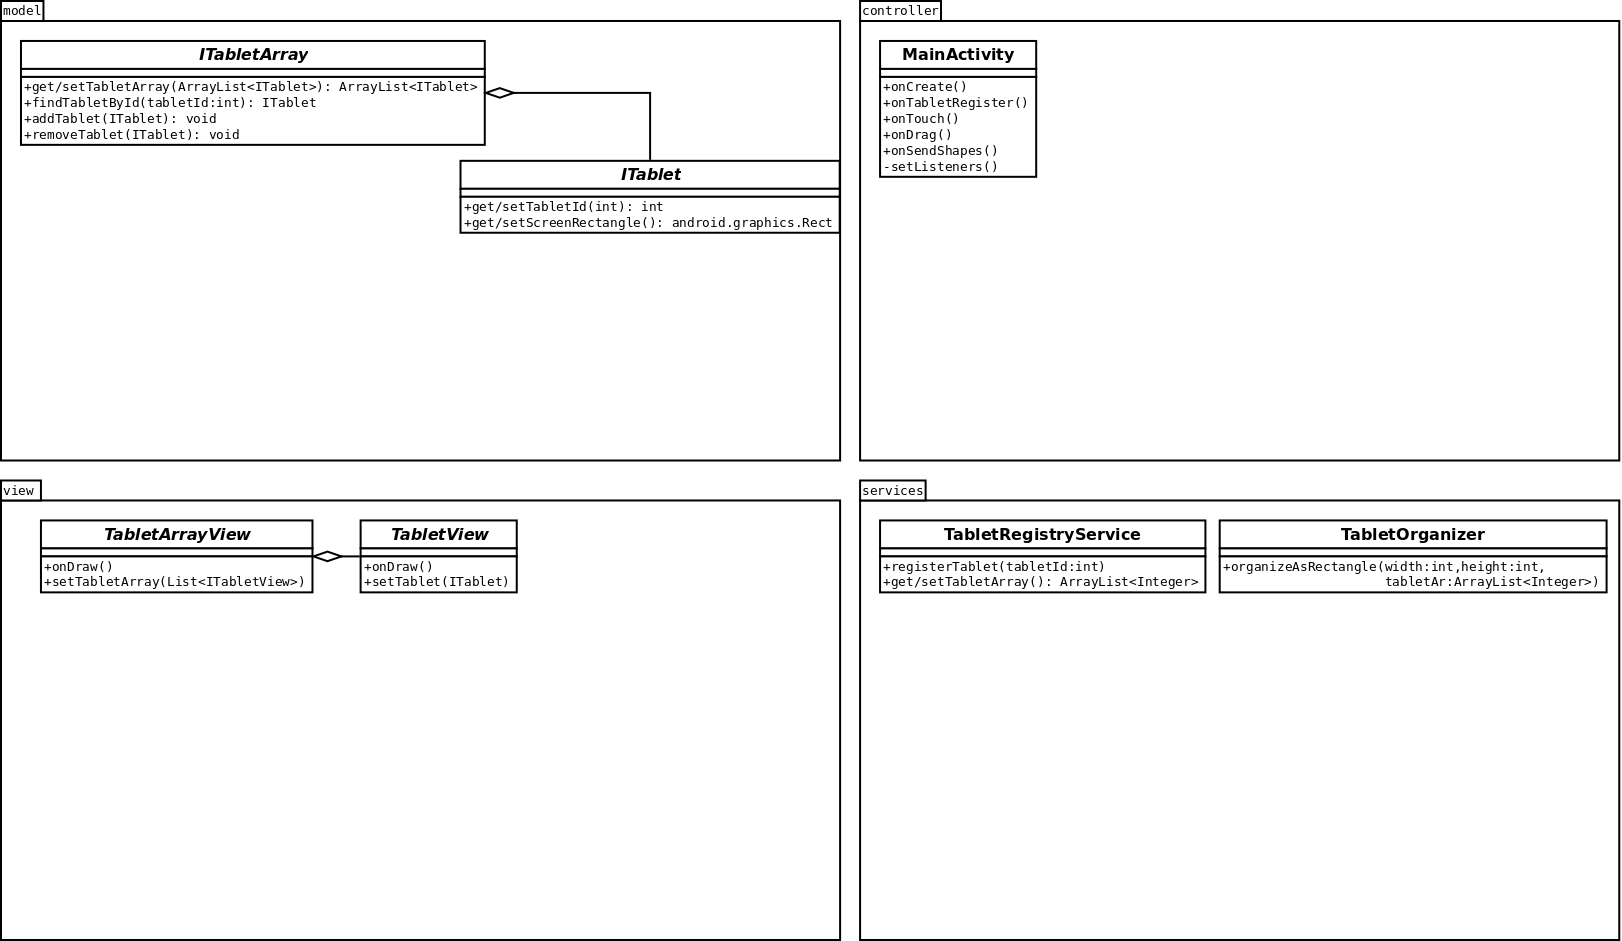
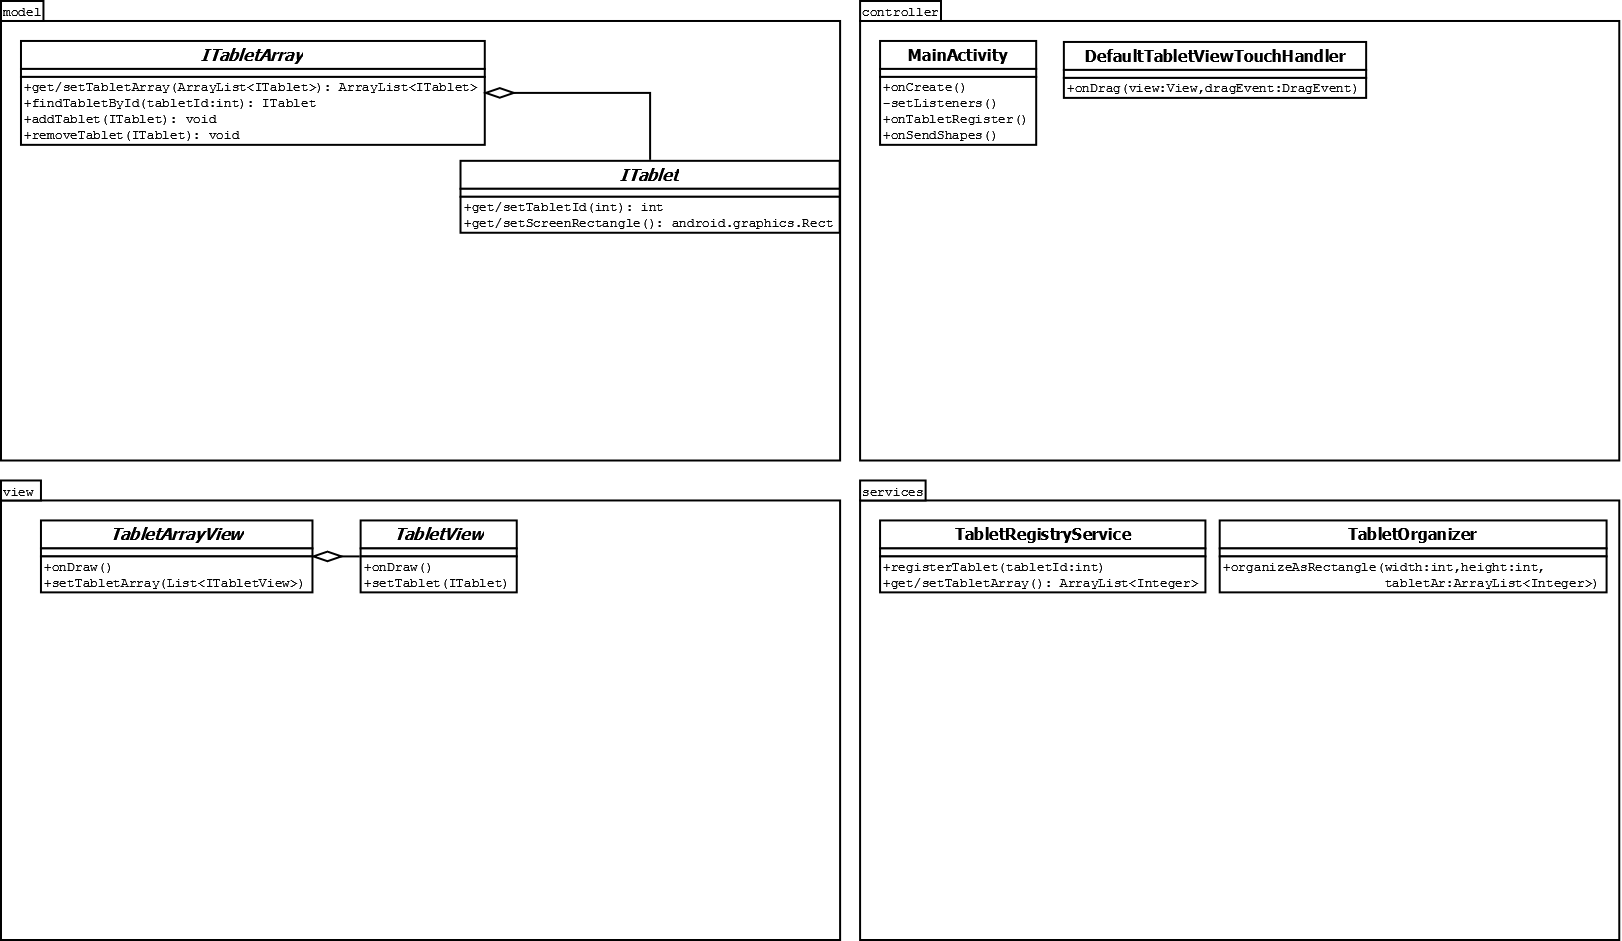
Cleaned up code, updated UML

diff --git a/AndroidWall/client/src/main/java/com/pervasive/androidwall/client/controller/MainActivity.java b/AndroidWall/client/src/main/java/com/pervasive/androidwall/client/controller/MainActivity.java
@@ -1,24 +1,13 @@
 package com.pervasive.androidwall.client.controller;
 
-import android.content.ClipData;
-import android.content.ClipDescription;
-import android.graphics.Canvas;
-import android.graphics.Color;
-import android.graphics.Point;
 import android.graphics.Rect;
-import android.graphics.drawable.ColorDrawable;
-import android.graphics.drawable.Drawable;
 import android.support.v7.app.ActionBarActivity;
 import android.os.Bundle;
 import android.util.DisplayMetrics;
-import android.util.Log;
-import android.view.DragEvent;
 import android.view.Menu;
 import android.view.MenuItem;
 import android.view.View;
 import android.widget.ImageView;
-import android.widget.RelativeLayout;
-import android.widget.Toast;
 
 import com.pervasive.androidwall.client.R;
 import com.pervasive.androidwall.client.model.CTablet;
@@ -31,10 +20,8 @@ public class MainActivity extends ActionBarActivity {
     private CTablet tablet;
     private Rect defaultTabletRect;
 
-    View ima;
+    private View defaultImageView;
     private static final String IMAGEVIEW_TAG = "Android Logo";
-    String msg;
-    private android.widget.RelativeLayout.LayoutParams layoutParams;
 
     @Override
     protected void onCreate(Bundle savedInstanceState) {
@@ -50,9 +37,9 @@ public class MainActivity extends ActionBarActivity {
         tabletView.setTablet(tablet);
 
         // Note: to be changed later with other objects
-        ima = (ImageView) findViewById(R.id.iv_logo);
+        defaultImageView = (ImageView) findViewById(R.id.iv_logo);
         // Sets the tag
-        ima.setTag(IMAGEVIEW_TAG);
+        defaultImageView.setTag(IMAGEVIEW_TAG);
 
         // Hook up the listeners
         setListeners();
@@ -80,9 +67,9 @@ public class MainActivity extends ActionBarActivity {
 
     private void setListeners() {
         // Old implementation commented
-//        ima.setOnDragListener(new DefaultImageViewDraggable(this));
-//        ima.setOnDragListener(new DefaultTabletViewDraggable(this));
+//        defaultImageView.setOnDragListener(new DefaultImageViewDraggable(this));
+//        defaultImageView.setOnDragListener(new DefaultTabletViewDraggable(this));
 //        tabletView.setOnDragListener(new DefaultTabletViewDraggable(this));
-        ima.setOnTouchListener(new DefaultImageViewTouchHandler(this, tabletView));
+        defaultImageView.setOnTouchListener(new DefaultTabletViewTouchHandler(this, tabletView));
     }
 }

diff --git a/AndroidWall/client/src/main/java/com/pervasive/androidwall/client/controller/DefaultTabletViewTouchHandler.java b/AndroidWall/client/src/main/java/com/pervasive/androidwall/client/controller/DefaultTabletViewTouchHandler.java
@@ -12,13 +12,14 @@ import com.pervasive.androidwall.client.view.TabletView;
 
 /**
  * Created by zherr on 3/20/14.
+ * A touch listener for objects in the tablet view
  */
-public class DefaultImageViewTouchHandler implements View.OnTouchListener{
+public class DefaultTabletViewTouchHandler implements View.OnTouchListener{
 
     private Context appContext;
     private TabletView tabletView;
 
-    public DefaultImageViewTouchHandler(Context appContext, TabletView tabletView) {
+    public DefaultTabletViewTouchHandler(Context appContext, TabletView tabletView) {
         this.appContext = appContext;
         this.tabletView = tabletView;
     }

diff --git a/AndroidWall/client/src/main/java/com/pervasive/androidwall/client/controller/DefaultTabletViewDraggable.java b/AndroidWall/client/src/main/java/com/pervasive/androidwall/client/controller/DefaultTabletViewDraggable.java
@@ -17,6 +17,7 @@ import com.pervasive.androidwall.client.view.TabletView;
 
 /**
  * Created by zherr on 3/20/14.
+ * @Note Unused class
  */
 public class DefaultTabletViewDraggable implements View.OnDragListener {
 

diff --git a/AndroidWall/client/src/main/java/com/pervasive/androidwall/client/controller/DefaultImageViewDraggable.java b/AndroidWall/client/src/main/java/com/pervasive/androidwall/client/controller/DefaultImageViewDraggable.java
@@ -13,6 +13,7 @@ import android.widget.Toast;
 
 /**
  * Created by zherr on 3/19/14.
+ * @Note Unused class
  */
 public class DefaultImageViewDraggable implements View.OnDragListener{
 
